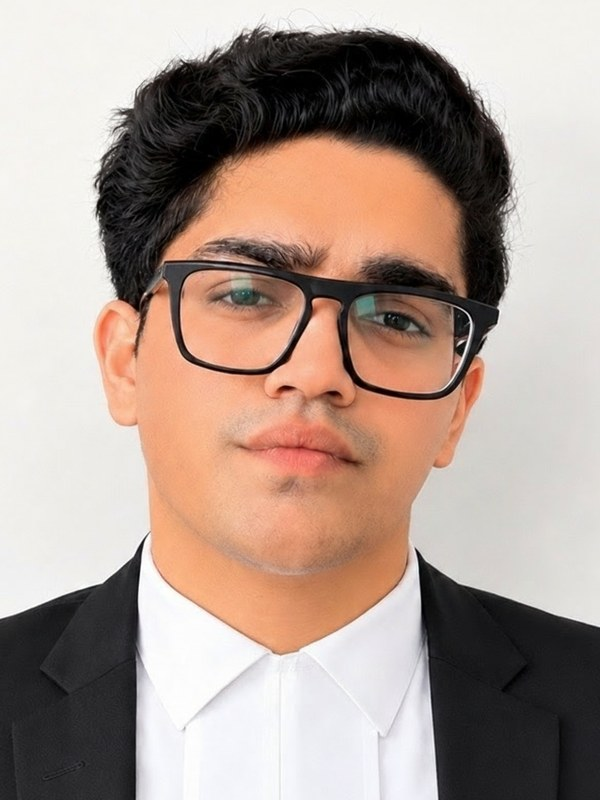
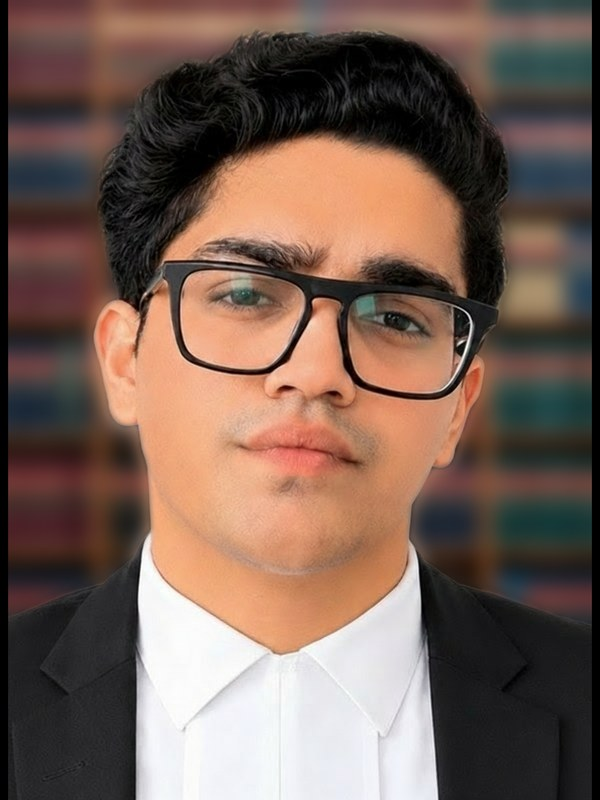
Armaan: law-library background; restore Sreelatha's original portrait

diff --git a/people/index.html b/people/index.html
@@ -97,7 +97,7 @@
           <div class="detail">Contract vetting, dispute resolution and compliance work. Appears before the Supreme Court of India, the Delhi High Court and Consumer Commissions.</div>
         </article>
         <article class="person p3">
-          <div class="portrait"><img src="../images/people/armaan-sharma.jpg?v=3" alt="Armaan Sharma"></div>
+          <div class="portrait"><img src="../images/people/armaan-sharma.jpg?v=4" alt="Armaan Sharma"></div>
           <div class="name">Armaan Sharma</div>
           <div class="bar"></div>
           <div class="role">Associate · Disputes</div>
@@ -140,7 +140,7 @@
       <div class="eyebrow" style="margin-bottom:32px;">Chambers &amp; Operations</div>
       <div class="people-grid">
         <article class="person p1">
-          <div class="portrait"><img src="../images/people/sreelatha.jpg?v=3" alt="Sreelatha Jayan"></div>
+          <div class="portrait"><img src="../images/people/sreelatha.jpg?v=4" alt="Sreelatha Jayan"></div>
           <div class="name">Sreelatha Jayan</div>
           <div class="bar"></div>
           <div class="role">Manager (F&amp;A)</div>
